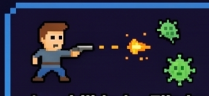
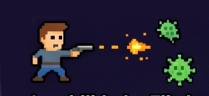
fix: character sprite

Changed region(s): [[0.0, 0.0, 1.0, 1.0]]

diff --git a/src/assets.js b/src/assets.js
@@ -8,12 +8,11 @@
    * PNG. Background is removed via FLOOD-FILL from the borders (not a brightness
    * threshold) so dark character outlines (#000000 etc.) are preserved.
    *
-   * main_character.png is 209x96 = a SINGLE wide sprite (hero + horizontal
-   * weapon). Tight character bbox: sx=4 sy=2 sw=205 sh=94. The body sits left
-   * of the sprite center (weapon extends right), so drawFrame anchors the body
-   * centroid to (x,y) via anchorOffsetX.
+   * Cropped from main_character.png (no blue border, no viruses).
+   * 129x80 transparent PNG. Body sits left of center; weapon extends right.
+   * drawFrame anchors the body centroid to (x,y) via anchorOffsetX.
    */
[2 lines of base64/hex data omitted]
 
   var Assets = {
     images: {},
@@ -22,14 +21,14 @@
     character: {
       url: CHARACTER_DATA_URL,
       img: null,
-      frameW: 205,
-      frameH: 94,
+      frameW: 129,
+      frameH: 80,
       frames: 1,
       sources: [
         // anchorOffsetX: body-centroid offset from source-center (negative=left).
         // Pinning the body (not the weapon tip) to (x,y) keeps the hero on the
         // collision point while the weapon points toward the facing/aim side.
-        { sx: 4, sy: 2, sw: 205, sh: 94, anchorOffsetX: -15.5 }
+        { sx: 0, sy: 0, sw: 129, sh: 80, anchorOffsetX: -15.5 }
       ]
     },
 